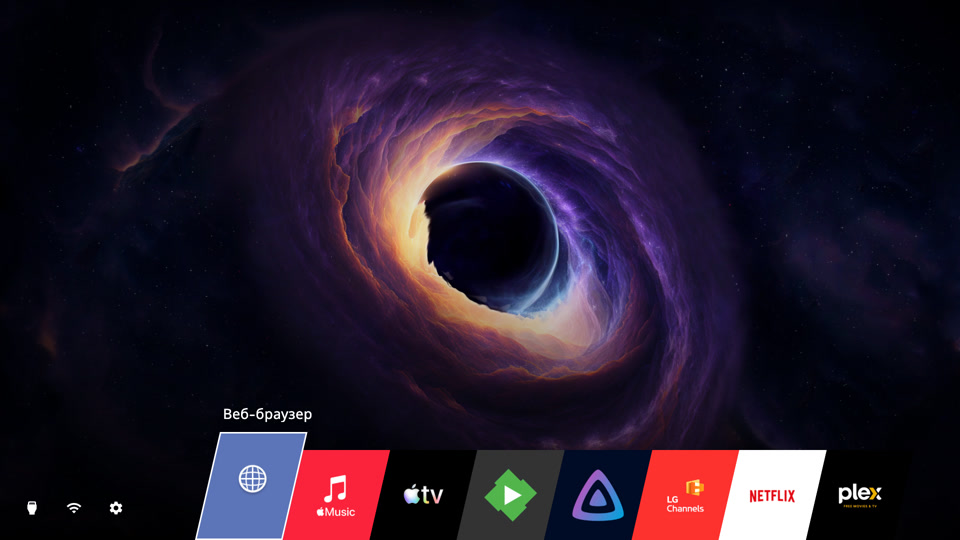
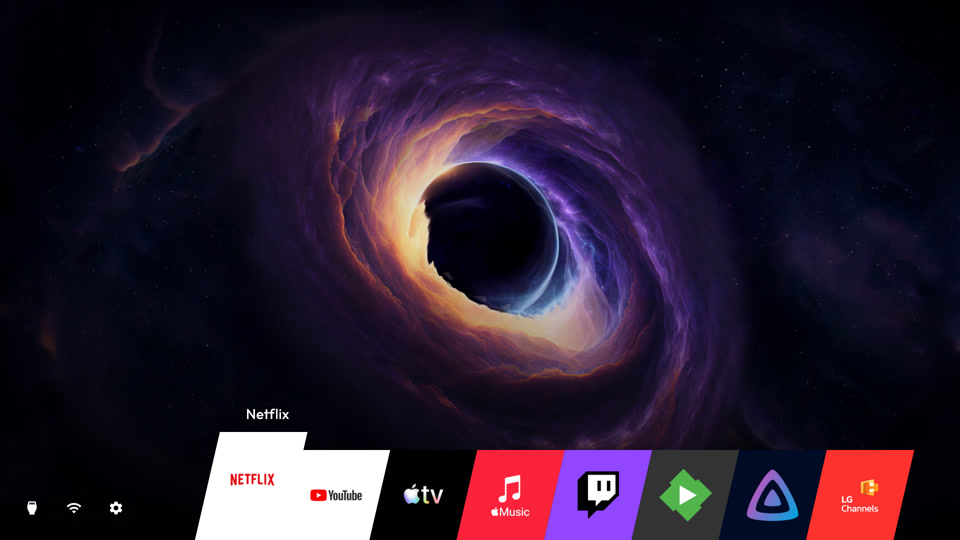
docs: refresh Ribbon Black Hole screenshots and browser demo

diff --git a/scripts/preview.py b/scripts/preview.py
@@ -75,7 +75,9 @@ def revision():
 
 def launcher_html():
     return (ROOT / 'launcher/index.html').read_text().replace(
-        '<head>', '<head>\n  <script src="../preview/bridge.js"></script>', 1)
+        '<head>', '<head>\n  <script src="../preview/bridge.js"></script>', 1).replace(
+        '<script src="wallpaper-media-cache.js"></script>',
+        '<script>window.WallpaperMediaCache = undefined;</script>')
 
 
 def root_launcher():
@@ -85,7 +87,9 @@ def root_launcher():
     files['config.js'] = preview_config(files['config.js'])
     files['apps.js'] = ('window.TV_APPS = ' + json.dumps(inventory()) + ';\n').encode()
     files['index.html'] = files['index.html'].replace(
-        b'<head>', b'<head>\n  <script src="../preview/bridge.js"></script>', 1)
+        b'<head>', b'<head>\n  <script src="../preview/bridge.js"></script>', 1).replace(
+        b'<script src="wallpaper-media-cache.js"></script>',
+        b'<script>window.WallpaperMediaCache = undefined;</script>')
     return files
 
 

diff --git a/themes/ribbon/README.md b/themes/ribbon/README.md
@@ -1,11 +1,11 @@
 # Ribbon (bundled theme source)
 
-Original blue-violet nebula on black space with a subtle 20-second camera drift, compact native app logos and a skewed bottom ribbon. This theme uses bounded `layout.ribbon` data and ordinary appearance CSS. No theme-specific navigation code, uploaded author scripts or replacement app logos are included. Classic remains Home’s default.
+Black Hole video by **Xecutioner**, native 3840×2160 with subtle original motion, compact app logos and a skewed bottom ribbon. Non-commercial use with author attribution is permitted as confirmed by the maintainer; see [license](LICENSE.txt), [credits](CREDITS.txt) and [artwork provenance](ARTWORK.md). The video is not MIT artwork.
 
-The runtime bundle is `launcher/themes/ribbon`; `launcher/builtin-themes.json` registers packaged built-ins for both editions. Run `node scripts/build-builtin-theme.cjs themes/ribbon` after committing source (use `--update-source` for an intentional committed source upgrade), then run it with `--check` to verify reproducibility. Preview/provenance documents use simulated services and reference icons, not physical-TV acceptance. The separate toolkit keeps a development author example for matching future runtime exports.
+![Ribbon with Black Hole](previews/no-root-home.png)
 
-`previews/community-preview.png` is the exact earlier prototype image approved by the user for the Reddit announcement. It is not a new device acceptance capture. The author thumbnail is rendered from the source theme; a final bundled-selection screenshot is checked separately.
+[Try Ribbon in the browser demo](https://razdva122.github.io/clean-your-tv-lg-webos/demo/). Choose Ribbon in the theme selector. Demo functions use simulated services and reference app icons; these images are browser renders, not TV screenshots. Public demo deployment follows publication from main.
 
-The new source is next-release development: native 3840×2160 H.264, 1920×1080 fallback and a static UHD JPEG are embedded offline. The original 4096×2304 procedural artwork is downsampled without upscaling; motion is a periodic camera drift. See CREDITS/LICENSE and wallpaper-preparation.json. Physical webOS playback acceptance remains separate.
+The source embeds native UHD/FHD silent video and an UHD JPEG fallback. The trusted runtime uses a continuous bounded stream for the pinned Black Hole UHD media, avoiding a seek at every repeat; unsupported engines keep ordinary video/image fallbacks. Black Hole can also be selected in Wallpapers over another theme. Accepting a different theme restores its own background; Black Hole and personal uploads remain available for reselection.
 
-See ARTWORK.md for the reproducible render/encode commands and concept-image provenance.
+The runtime bundle is `launcher/themes/ribbon`. After committing intentional source changes, rebuild with `node scripts/build-builtin-theme.cjs themes/ribbon --update-source`; use `--check` to verify reproducibility. `previews/provenance.json` records screenshot provenance. The historical community prototype remains available in Git history.

diff --git a/README.md b/README.md
@@ -36,7 +36,9 @@ Manage them in **Settings → Themes** on your TV.
 
 | Classic menu | Liquid Glass | Ribbon |
 | --- | --- | --- |
-| <img src="docs/launcher-classic.jpg" alt="Classic menu browser preview" width="280"> | <img src="docs/launcher-liquid-glass.jpg" alt="Liquid Glass browser preview" width="280"> | <img src="docs/launcher-ribbon.jpg" alt="Ribbon browser preview" width="280"> |
+| <img src="docs/launcher-classic.jpg" alt="Classic menu browser preview" width="280"> | <img src="docs/launcher-liquid-glass.jpg" alt="Liquid Glass browser preview" width="280"> | <img src="docs/launcher-ribbon.jpg" alt="Ribbon with Black Hole video by Xecutioner — browser preview" width="280"> |
+
+Ribbon wallpaper video: **Xecutioner** · non-commercial use with attribution.
 
 **[Try the themes in the main browser preview →](https://razdva122.github.io/clean-your-tv-lg-webos/demo/)**
 
